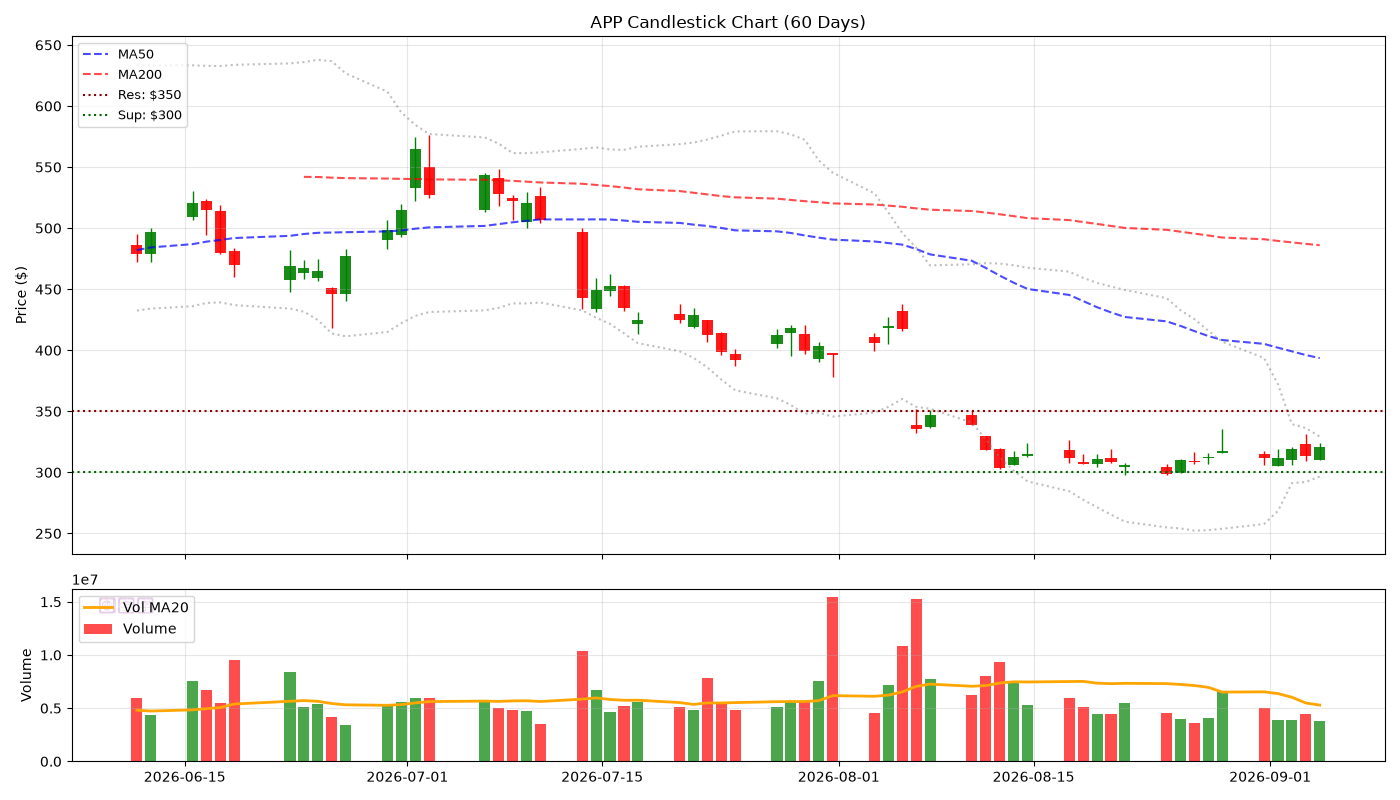
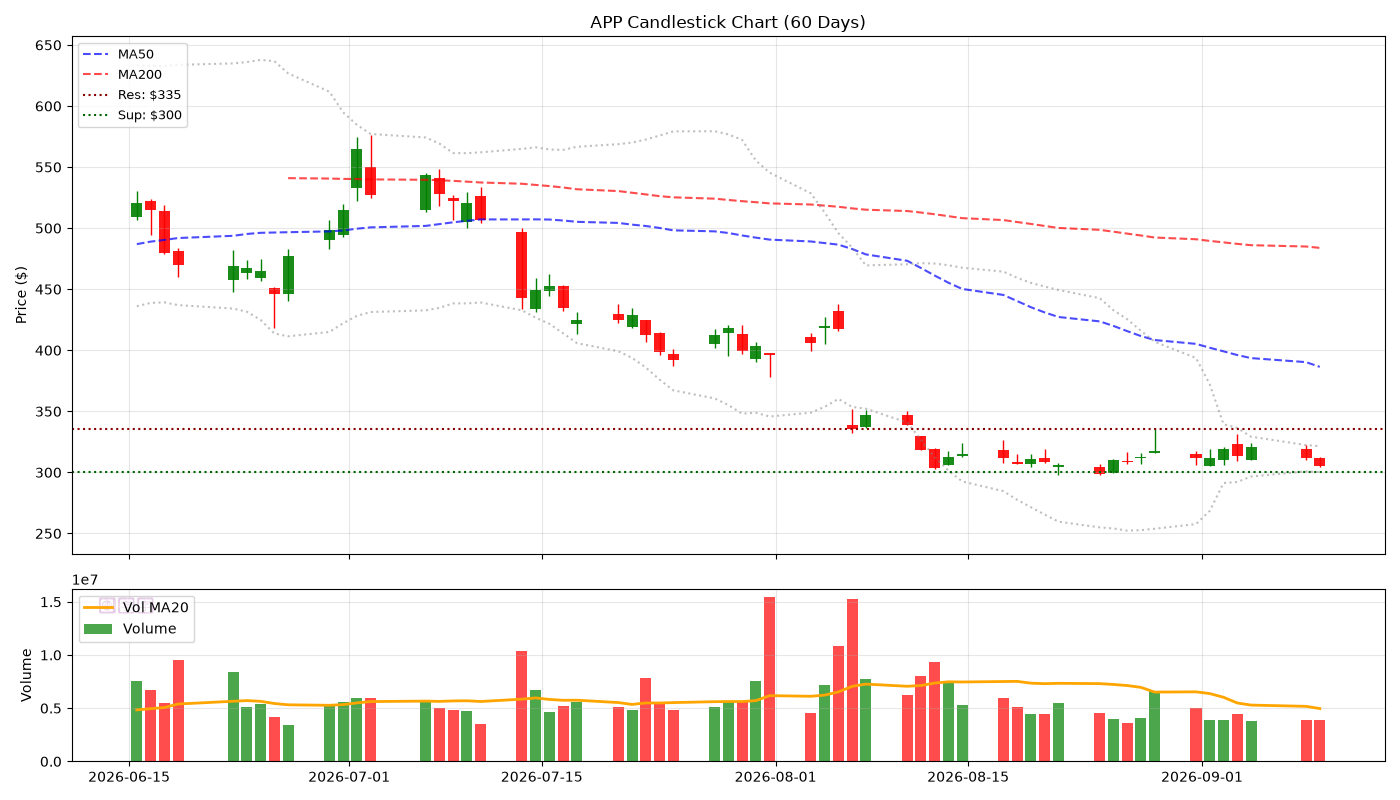
feat(v5): 2026-09-10 Candlestick

diff --git a/reports/2026-09-10.md b/reports/2026-09-10.md
@@ -1,0 +1,85 @@
+# 🕯 Hermes V5 陰陽燭專業日報 - 2026-09-10
+> **生成時間**: 2026-09-10 06:02:40 | **圖表**: 正宗陰陽燭 + Volume
+
+---
+
+## 📊 核心數據
+
+| 股票 | 價格 | 漲跌% | RSI | 成交量 | 阻力 | 支撐 |
+|------|------|-------|-----|--------|------|------|
+| SNDK | $1764.17 | +1.51% | 68.5 | 💧 | $1800 | $1750 |
+| MU | $1027.77 | +2.75% | 64.5 | 💧 | $1042 | $1000 |
+| SOXL | $125.87 | +2.11% | 54.0 | 💧 | $150 | $100 |
+| TSLA | $367.81 | -0.10% | 55.7 | 💧 | $384 | $350 |
+| APP | $305.06 | -2.23% | 46.3 | 💧 | $335 | $300 |
+| NOW | $131.11 | -2.31% | 53.1 | 💧 | $150 | $118 |
+| CAT | $815.56 | -0.84% | 49.8 | 💧 | $888 | $800 |
+| AMAT | $468.85 | -0.83% | 37.2 | 💧 | $500 | $450 |
+| NOK | $10.76 | +1.03% | 61.4 | 💧 | $11 | $10 |
+| ALAB | $300.54 | +4.05% | 53.7 | 💧 | $354 | $300 |
+
+---
+
+## 📈 個股陰陽燭分析
+
+### SNDK ($1764.17, +1.51%)
+![Candlestick](../charts/SNDK.png)
+
+- **RSI**: 68.5 | **Vol**: NORMAL
+- **關鍵位**: 阻力 $1800.00 | 支撐 $1750.00
+
+### MU ($1027.77, +2.75%)
+![Candlestick](../charts/MU.png)
+
+- **RSI**: 64.5 | **Vol**: NORMAL
+- **關鍵位**: 阻力 $1042.40 | 支撐 $1000.00
+
+### SOXL ($125.87, +2.11%)
+![Candlestick](../charts/SOXL.png)
+
+- **RSI**: 54.0 | **Vol**: NORMAL
+- **關鍵位**: 阻力 $150.00 | 支撐 $100.00
+
+### TSLA ($367.81, -0.10%)
+![Candlestick](../charts/TSLA.png)
+
+- **RSI**: 55.7 | **Vol**: NORMAL
+- **關鍵位**: 阻力 $384.04 | 支撐 $350.00
+
+### APP ($305.06, -2.23%)
+![Candlestick](../charts/APP.png)
+
+- **RSI**: 46.3 | **Vol**: NORMAL
+- **關鍵位**: 阻力 $335.45 | 支撐 $300.00
+
+### NOW ($131.11, -2.31%)
+![Candlestick](../charts/NOW.png)
+
+- **RSI**: 53.1 | **Vol**: NORMAL
+- **關鍵位**: 阻力 $149.60 | 支撐 $117.59
+
+### CAT ($815.56, -0.84%)
+![Candlestick](../charts/CAT.png)
+
+- **RSI**: 49.8 | **Vol**: NORMAL
+- **關鍵位**: 阻力 $887.91 | 支撐 $800.00
+
+### AMAT ($468.85, -0.83%)
+![Candlestick](../charts/AMAT.png)
+
+- **RSI**: 37.2 | **Vol**: NORMAL
+- **關鍵位**: 阻力 $500.00 | 支撐 $450.00
+
+### NOK ($10.76, +1.03%)
+![Candlestick](../charts/NOK.png)
+
+- **RSI**: 61.4 | **Vol**: NORMAL
+- **關鍵位**: 阻力 $11.15 | 支撐 $9.54
+
+### ALAB ($300.54, +4.05%)
+![Candlestick](../charts/ALAB.png)
+
+- **RSI**: 53.7 | **Vol**: NORMAL
+- **關鍵位**: 阻力 $354.00 | 支撐 $300.00
+
+*Generated by Hermes Agent V5 (Candlestick Pro)*

diff --git a/index.md b/index.md
@@ -1,12 +1,12 @@
 # 🌍 Hermes V5 陰陽燭情報中心
-> **更新**: 2026-09-06 22:12:56
+> **更新**: 2026-09-10 06:02:40
 
 | 股票 | 價格 | 漲跌% | RSI | Vol |
 |------|------|-------|-----|-----|
-| SNDK | $1740.00 | +11.90% | 46.7 | 💤 |
-| MU | $1016.59 | +6.10% | 50.7 | 💤 |
-| SOXL | $117.28 | +9.87% | 30.2 | 💤 |
-| TSLA | $354.08 | -5.92% | 55.0 | 🔥 |
-| APP | $320.56 | +2.23% | 56.1 | 💤 |
+| SNDK | $1764.17 | +1.51% | 68.5 | 💤 |
+| MU | $1027.77 | +2.75% | 64.5 | 💤 |
+| SOXL | $125.87 | +2.11% | 54.0 | 💤 |
+| TSLA | $367.81 | -0.10% | 55.7 | 💤 |
+| APP | $305.06 | -2.23% | 46.3 | 💤 |
 
-📖 [查看完整陰陽燭報告](reports/2026-09-06.md)
+📖 [查看完整陰陽燭報告](reports/2026-09-10.md)
